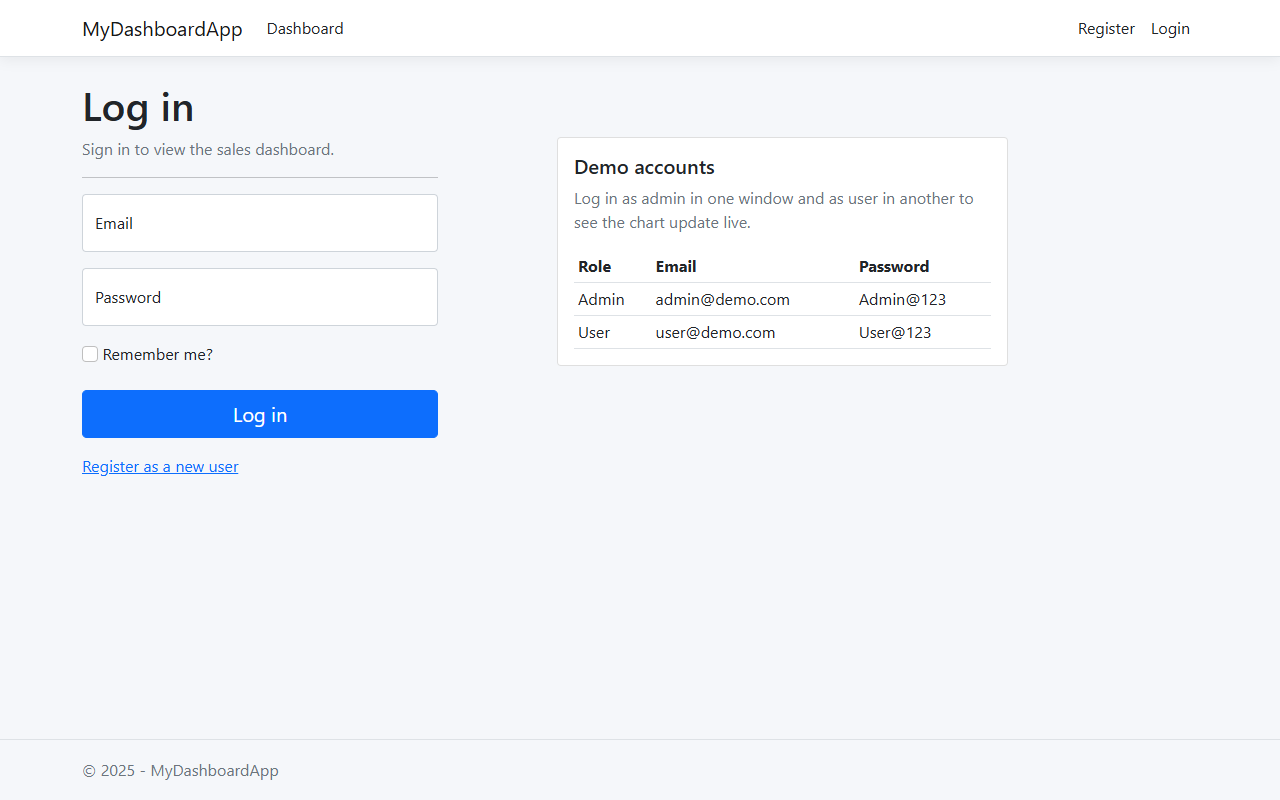
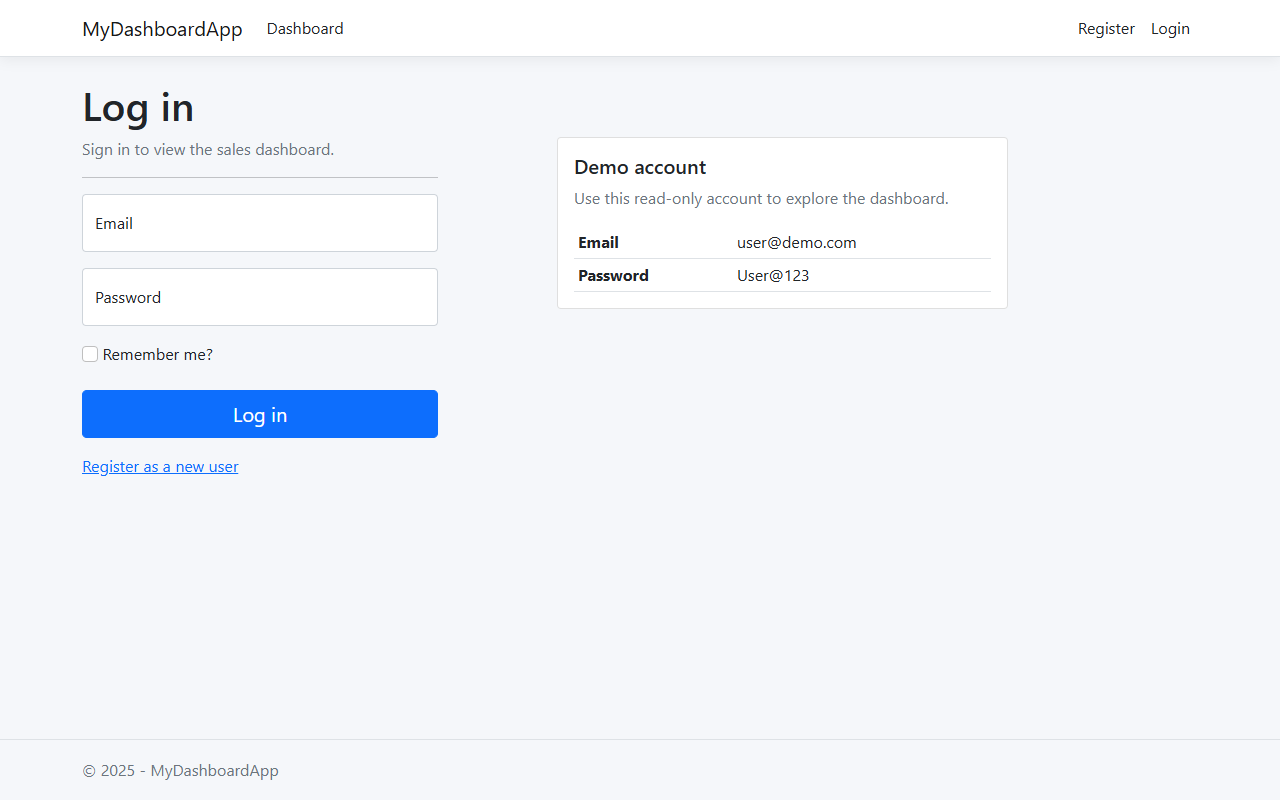
Keep the admin account private and prepare Azure deployment
Only the read-only demo account is public now. The admin account is
read from a git-ignored appsettings.Local.json locally or from app
settings on the server. Add an optional daily reset of the sample data
and a deploy job that runs once the Azure settings exist.

Changed region(s): [[0.4375, 0.2188, 0.75, 0.4375]]

diff --git a/Data/DemoResetService.cs b/Data/DemoResetService.cs
@@ -1,0 +1,37 @@
+namespace MyDashboardApp.Data
+{
+    // Resets the sample sales once a day so the public demo stays clean
+    public class DemoResetService : BackgroundService
+    {
+        private readonly IServiceProvider _services;
+        private readonly ILogger<DemoResetService> _logger;
+
+        public DemoResetService(IServiceProvider services, ILogger<DemoResetService> logger)
+        {
+            _services = services;
+            _logger = logger;
+        }
+
+        protected override async Task ExecuteAsync(CancellationToken stoppingToken)
+        {
+            using var timer = new PeriodicTimer(TimeSpan.FromHours(24));
+
+            // Reset on startup too, free hosting plans restart the app after it sleeps
+            do
+            {
+                try
+                {
+                    using var scope = _services.CreateScope();
+                    var context = scope.ServiceProvider.GetRequiredService<MyDashboardAppContext>();
+                    await SeedData.ResetSalesAsync(context);
+                    _logger.LogInformation("Demo sales data was reset.");
+                }
+                catch (Exception ex)
+                {
+                    _logger.LogError(ex, "Resetting the demo sales data failed.");
+                }
+            }
+            while (await timer.WaitForNextTickAsync(stoppingToken));
+        }
+    }
+}

diff --git a/Program.cs b/Program.cs
@@ -6,6 +6,9 @@ using MyDashboardApp.Hubs;
 
 var builder = WebApplication.CreateBuilder(args);
 
+// Private settings such as the admin account, ignored by git
+builder.Configuration.AddJsonFile("appsettings.Local.json", optional: true, reloadOnChange: false);
+
 // Add services to the container.
 var connectionString = builder.Configuration.GetConnectionString("DefaultConnection");
 if (string.IsNullOrEmpty(connectionString))
@@ -32,6 +35,12 @@ builder.Services.AddIdentity<IdentityUser, IdentityRole>(options =>
 
 // Add SignalR service
 builder.Services.AddSignalR();
+
+// Daily reset of the sample data, turned on for the public demo only
+if (builder.Configuration.GetValue<bool>("DemoData:ResetDaily"))
+{
+    builder.Services.AddHostedService<DemoResetService>();
+}
 
 // Check the antiforgery token on every POST
 builder.Services.AddControllersWithViews(options =>

diff --git a/Data/SeedData.cs b/Data/SeedData.cs
@@ -59,6 +59,13 @@ namespace MyDashboardApp.Data
             }
         }
 
+        // Remove everything added by visitors and put the sample year back
+        public static async Task ResetSalesAsync(MyDashboardAppContext context)
+        {
+            await context.SalesData.ExecuteDeleteAsync();
+            await SeedSales(context);
+        }
+
         private static async Task SeedSales(MyDashboardAppContext context)
         {
             if (await context.SalesData.AnyAsync())

diff --git a/README.md b/README.md
@@ -49,22 +49,32 @@ The default connection string points to LocalDB. To use a full SQL Server instan
 Server=localhost;Database=MyDashboardApp;Trusted_Connection=True;TrustServerCertificate=True
 ```
 
-### Demo accounts
+### Accounts
 
-These are created in the Development environment from `appsettings.Development.json`.
+A read-only account is created on startup, so anyone can look around:
 
-| Role | Email | Password |
-| --- | --- | --- |
-| Admin | admin@demo.com | Admin@123 |
-| User | user@demo.com | User@123 |
+| Email | Password |
+| --- | --- |
+| user@demo.com | User@123 |
 
-To see the live update, sign in as admin in one browser and as user in a private window, then add a sale.
+The admin account is not public. To try the admin view locally, create an `appsettings.Local.json` file next to `appsettings.json` (it is ignored by git) and restart the app:
+
+```json
+{
+  "DemoAccounts": {
+    "AdminEmail": "admin@demo.com",
+    "AdminPassword": "Choose-a-strong-password1"
+  }
+}
+```
+
+Then sign in as admin in one browser and as the read-only user in a private window, and add a sale to see the live update.
 
 ## Project layout
 
 ```
 Controllers/HomeController.cs   dashboard page and the AddSale endpoint
-Data/                           DbContext and startup seeding
+Data/                           DbContext, startup seeding and the daily demo reset
 Hubs/ChartHub.cs                SignalR hub the dashboards listen to
 Models/                         SalesData entity and the dashboard view model
 Views/Home/Index.cshtml         the dashboard
@@ -72,6 +82,16 @@ wwwroot/js/dashboard.js         chart, SignalR client and the add sale form
 Areas/Identity/                 customized login page
 mockup/                         screenshots and the preview GIF
 ```
+
+## Deployment
+
+The GitHub Actions workflow builds every push. It can also publish to Azure App Service with an Azure SQL database:
+
+1. Create the web app (.NET 8) and the database in Azure.
+2. In the web app's configuration, add the connection string `DefaultConnection` and these app settings: `DemoAccounts__AdminEmail`, `DemoAccounts__AdminPassword` and `DemoData__ResetDaily` set to `true`.
+3. In the GitHub repository settings, add the variable `AZURE_WEBAPP_NAME` and the secret `AZURE_WEBAPP_PUBLISH_PROFILE` (downloaded from the web app's overview page).
+
+After that, each push to `main` is deployed. The migration runs on startup, and with `ResetDaily` on, the sample data is restored when the app starts and every 24 hours after that.
 
 ## Notes
 
